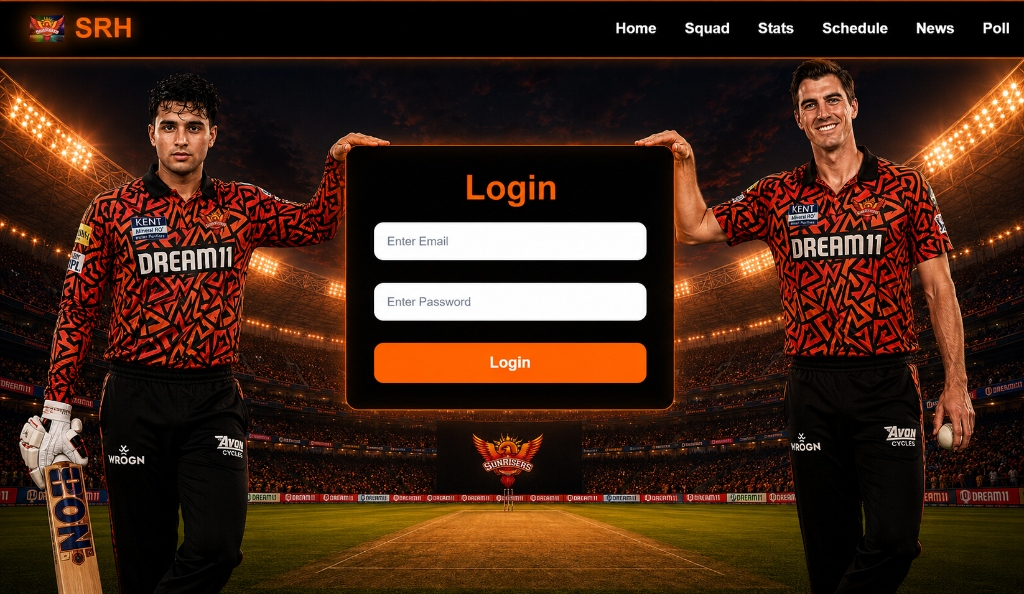
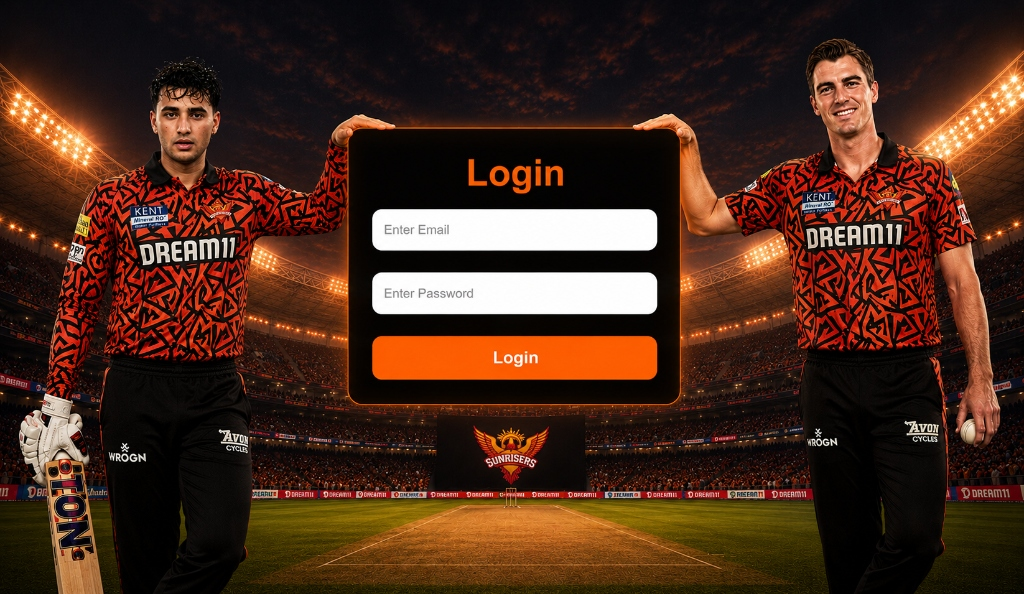
Swap background image to new clean version

diff --git a/client/src/pages/Login.jsx b/client/src/pages/Login.jsx
@@ -83,40 +83,42 @@ function Login() {
   return (
     <div
       style={{
+        position: "relative",
         minHeight: "100vh",
-        display: "flex",
-        flexDirection: "column",
         backgroundColor: "#000",
         color: "white",
+        overflowX: "hidden",
       }}
     >
-      {/* NAVBAR AT THE VERY TOP */}
-      <Navbar />
-
-      {/* REMAINDER OF SCREEN (BACKGROUND + LOGIN BOX) */}
+      {/* FULL SCREEN BACKGROUND IMAGE */}
       <div
         style={{
-          flex: 1,
-          position: "relative",
-          display: "flex",
-          justifyContent: "center",
-          alignItems: "center",
+          position: "absolute",
+          top: 0,
+          left: 0,
+          width: "100%",
+          height: "100%",
           backgroundImage: `url(${loginBg})`,
-          backgroundSize: "cover", // Cover ensures no blank black spaces on the sides
-          backgroundPosition: "center top",
+          backgroundSize: "cover",
+          backgroundPosition: "center",
           backgroundRepeat: "no-repeat",
+          zIndex: 0,
         }}
-      >
-        <div style={{ perspective: "1000px", width: "100%", display: "flex", justifyContent: "center", transform: "translateY(-30px)" }}>
+      ></div>
+
+      <div style={{ position: "relative", zIndex: 1, display: "flex", alignItems: "center", justifyContent: "center", minHeight: "100vh" }}>
+        <Navbar transparent={true} />
+
+        <div style={{ perspective: "1000px", width: "100%", display: "flex", justifyContent: "center" }}>
           <div
             style={{
               width: "100%",
-              maxWidth: "600px", // Perfect width to cover painted frame
-              padding: "50px",
-              background: "#080808", // Solid black to perfectly hide the fake UI
-              borderRadius: "20px",
-              border: "3px solid #ff6600", // Orange border matches the aesthetic
-              boxShadow: "0 0 50px rgba(255,102,0,0.6)",
+              maxWidth: "450px", // Shrunk perfectly to fit inside the painted frame width
+              padding: "20px 0", // Reduced padding
+              background: "transparent", // Completely transparent to let the painted box be the UI
+              borderRadius: "0",
+              border: "none", // Removed HTML border
+              boxShadow: "none", // Removed HTML shadow
               transition: "transform 0.8s",
               transformStyle: "preserve-3d",
               transform: isFlipped ? "rotateY(90deg)" : "rotateY(0deg)",
@@ -125,7 +127,6 @@ function Login() {
             {/* LOGIN VIEW */}
             {view === "login" && (
               <div>
-                <h1 style={titleStyle}>Login</h1>
                 <input type="email" placeholder="Enter Email" value={email} onChange={(e) => setEmail(e.target.value)} style={inputStyle} />
                 <input type="password" placeholder="Enter Password" value={password} onChange={(e) => setPassword(e.target.value)} style={inputStyle} />
                 

diff --git a/client/src/components/Navbar.jsx b/client/src/components/Navbar.jsx
@@ -2,7 +2,7 @@ import { useState, useEffect } from "react";
 import { Link } from "react-router-dom";
 import logo from "../assets/logo.png";
 
-function Navbar() {
+function Navbar({ transparent = false }) {
   const [showWelcome, setShowWelcome] = useState(false);
   const user = localStorage.getItem("user");
 
@@ -32,25 +32,18 @@ function Navbar() {
   return (
     <div
       style={{
-        background: "#000",
-
+        background: transparent ? "transparent" : "#000",
         padding: "20px 50px",
-
         display: "flex",
-
         justifyContent: "space-between",
-
         alignItems: "center",
-
-        borderBottom: "2px solid #ff6600",
-
-        boxShadow:
-          "0 5px 25px rgba(255,102,0,0.3)",
-
-        position: "sticky",
-
+        borderBottom: transparent ? "none" : "2px solid #ff6600",
+        boxShadow: transparent ? "none" : "0 5px 25px rgba(255,102,0,0.3)",
+        position: transparent ? "absolute" : "sticky",
         top: "0",
-
+        left: "0",
+        width: "100%",
+        boxSizing: "border-box", // Prevents padding from making it wider than 100%
         zIndex: "1000",
       }}
     >
